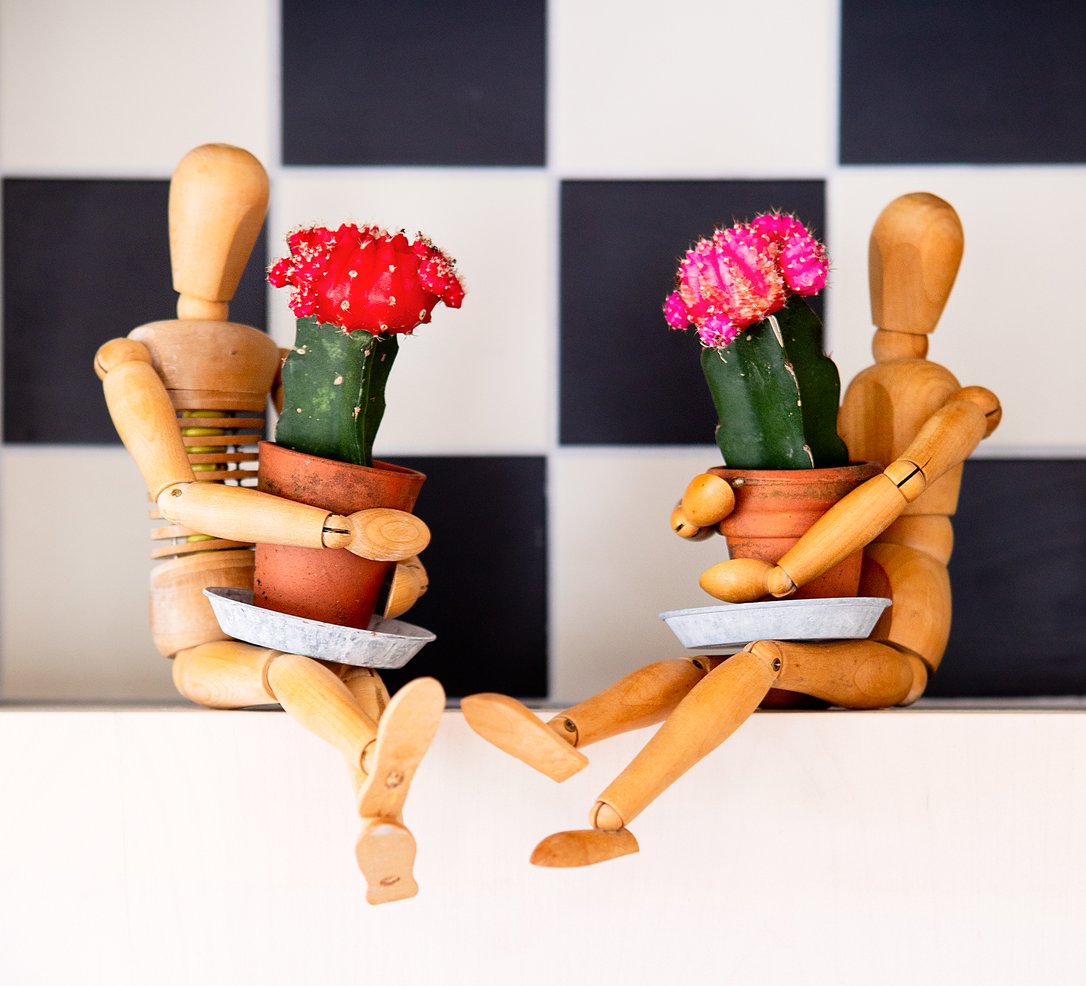
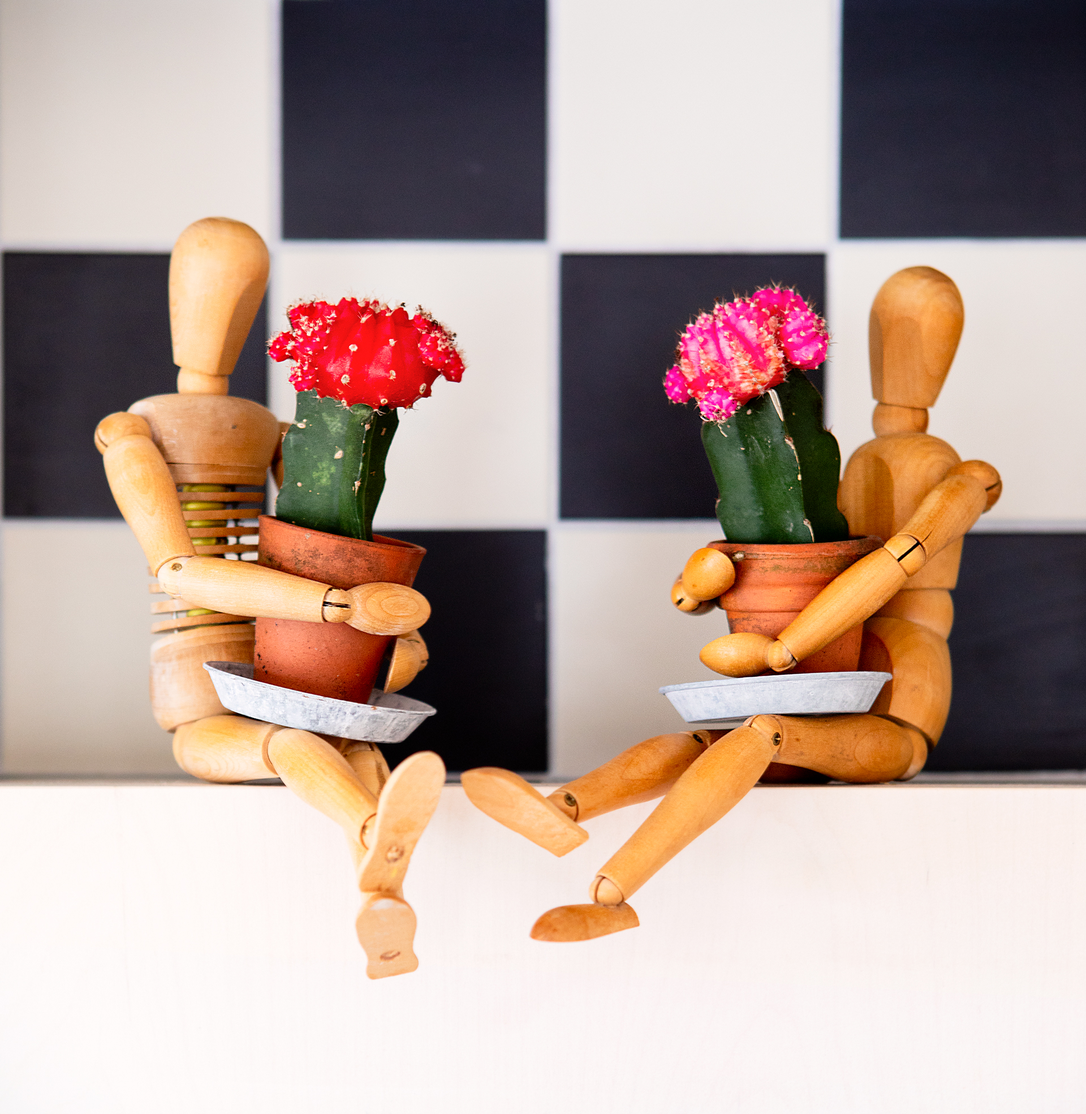
fixes

Changed region(s): [[0.0, 0.1239, 1.0, 0.9289], [0.75, 0.0, 0.7812, 0.031]]

diff --git a/src/pages/index.jsx b/src/pages/index.jsx
@@ -150,7 +150,7 @@ const IndexPage = () => {
       <Seo title="Home" />
 
       <div className=" relative w-full text-2xl ">
-        <nav className="fixed top-0 bg-white py-4 z-50 bg-black w-full left-0">
+        <nav className="md:fixed sticky top-0 bg-white py-4 z-50 bg-black w-full left-0">
           <ul className="uppercase flex ss-container -mx-2 lg:mx-auto">
             {pages.map(p => (
               <li>
@@ -164,26 +164,28 @@ const IndexPage = () => {
             ))}
           </ul>
         </nav>
-        <div>
+        <div className="h-[100vw] relative max-h-screen bg-black">
           <StaticImage
             alt="scene"
             src="../images/home.jpg"
-            width={1831}
-            height={1438}
-            layout="fixed"
-            className="w-full h-screen"
+            width={1920}
+            height={1969}
+            className="w-full h-full opacity-90"
             style={{
-              maxHeight: "100vh",
+              height: "100%",
               width: "100%",
-              position: "fixed",
+              position: "absolute",
+              // objectFit: "contain",
             }}
           />
-          <div className="ss-container flex flex-col lg:flex-row gap-4 relative z-10 h-screen items-center justify-center ">
-            <div className="lg:w-[390px]">
-              <S className="w-full h-auto" fill="rgba(255,255,255,0.8)" />
-            </div>
-            <div className="lg:flex-1">
-              <Smile className="w-full lg:w-auto lg:h-[262px] lg:-mt-2" />
+          <div className="absolute inset-0">
+            <div className="ss-container flex flex-col lg:flex-row gap-4 relative z-10 h-full items-center justify-center ">
+              <div className="lg:w-[390px]">
+                <S className="w-full h-auto" fill="rgba(255,255,255,0.8)" />
+              </div>
+              <div className="lg:flex-1">
+                <Smile className="w-full lg:w-auto lg:h-[265px] lg:mt-2" />
+              </div>
             </div>
           </div>
         </div>

diff --git a/gatsby-config.js b/gatsby-config.js
@@ -1,9 +1,7 @@
 module.exports = {
   siteMetadata: {
-    title: `Gatsby Default Starter`,
-    description: `Kick off your next, great Gatsby project with this default starter. This barebones starter ships with the main Gatsby configuration files you might need.`,
-    author: `@gatsbyjs`,
-    siteUrl: `https://gatsbystarterdefaultsource.gatsbyjs.io/`,
+    title: `Stacy Sirk`,
+    description: `Locating hidden gems - talented creators,artisans, unique products - for world class retailers.`,
   },
   plugins: [
     `gatsby-plugin-smoothscroll`,

diff --git a/src/components/seo.js b/src/components/seo.js
@@ -18,7 +18,6 @@ function Seo({ description, lang, meta, title }) {
           siteMetadata {
             title
             description
-            author
           }
         }
       }
@@ -55,10 +54,6 @@ function Seo({ description, lang, meta, title }) {
         {
           name: `twitter:card`,
           content: `summary`,
-        },
-        {
-          name: `twitter:creator`,
-          content: site.siteMetadata?.author || ``,
         },
         {
           name: `twitter:title`,
